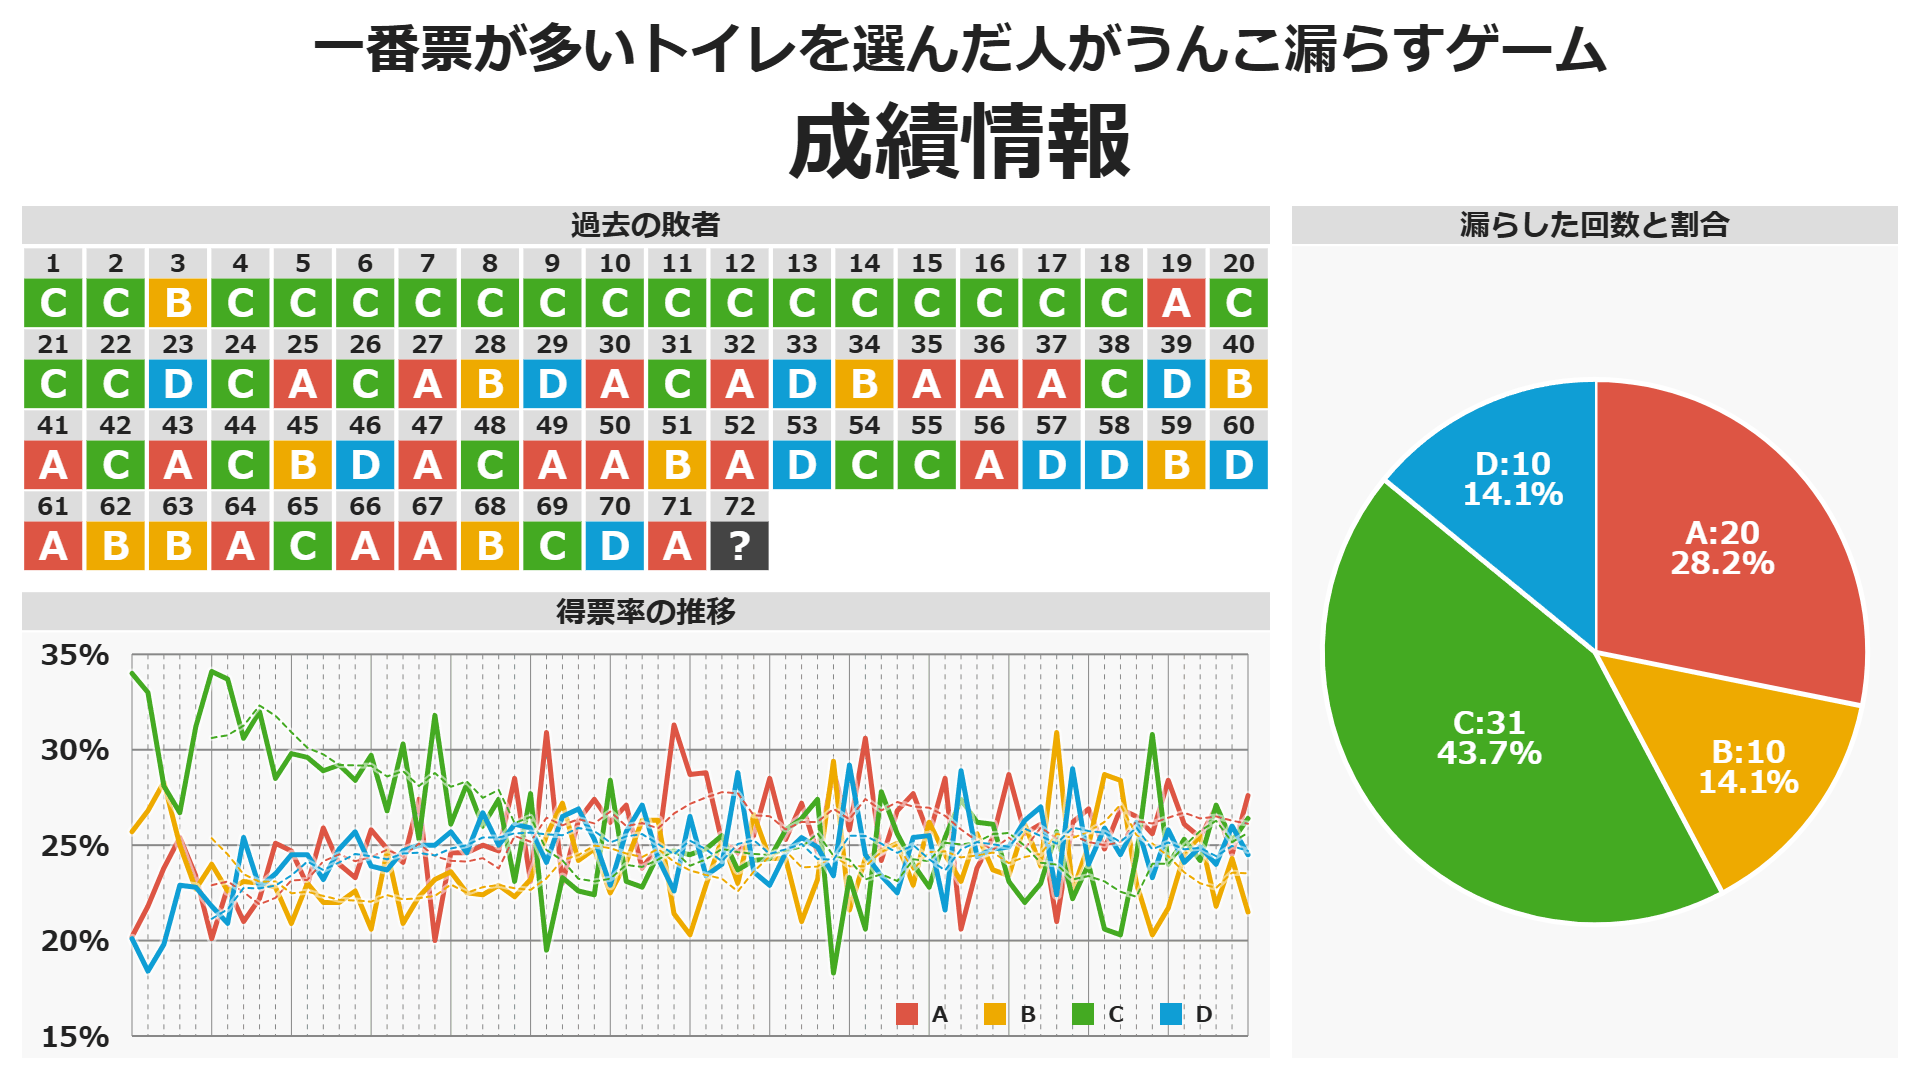
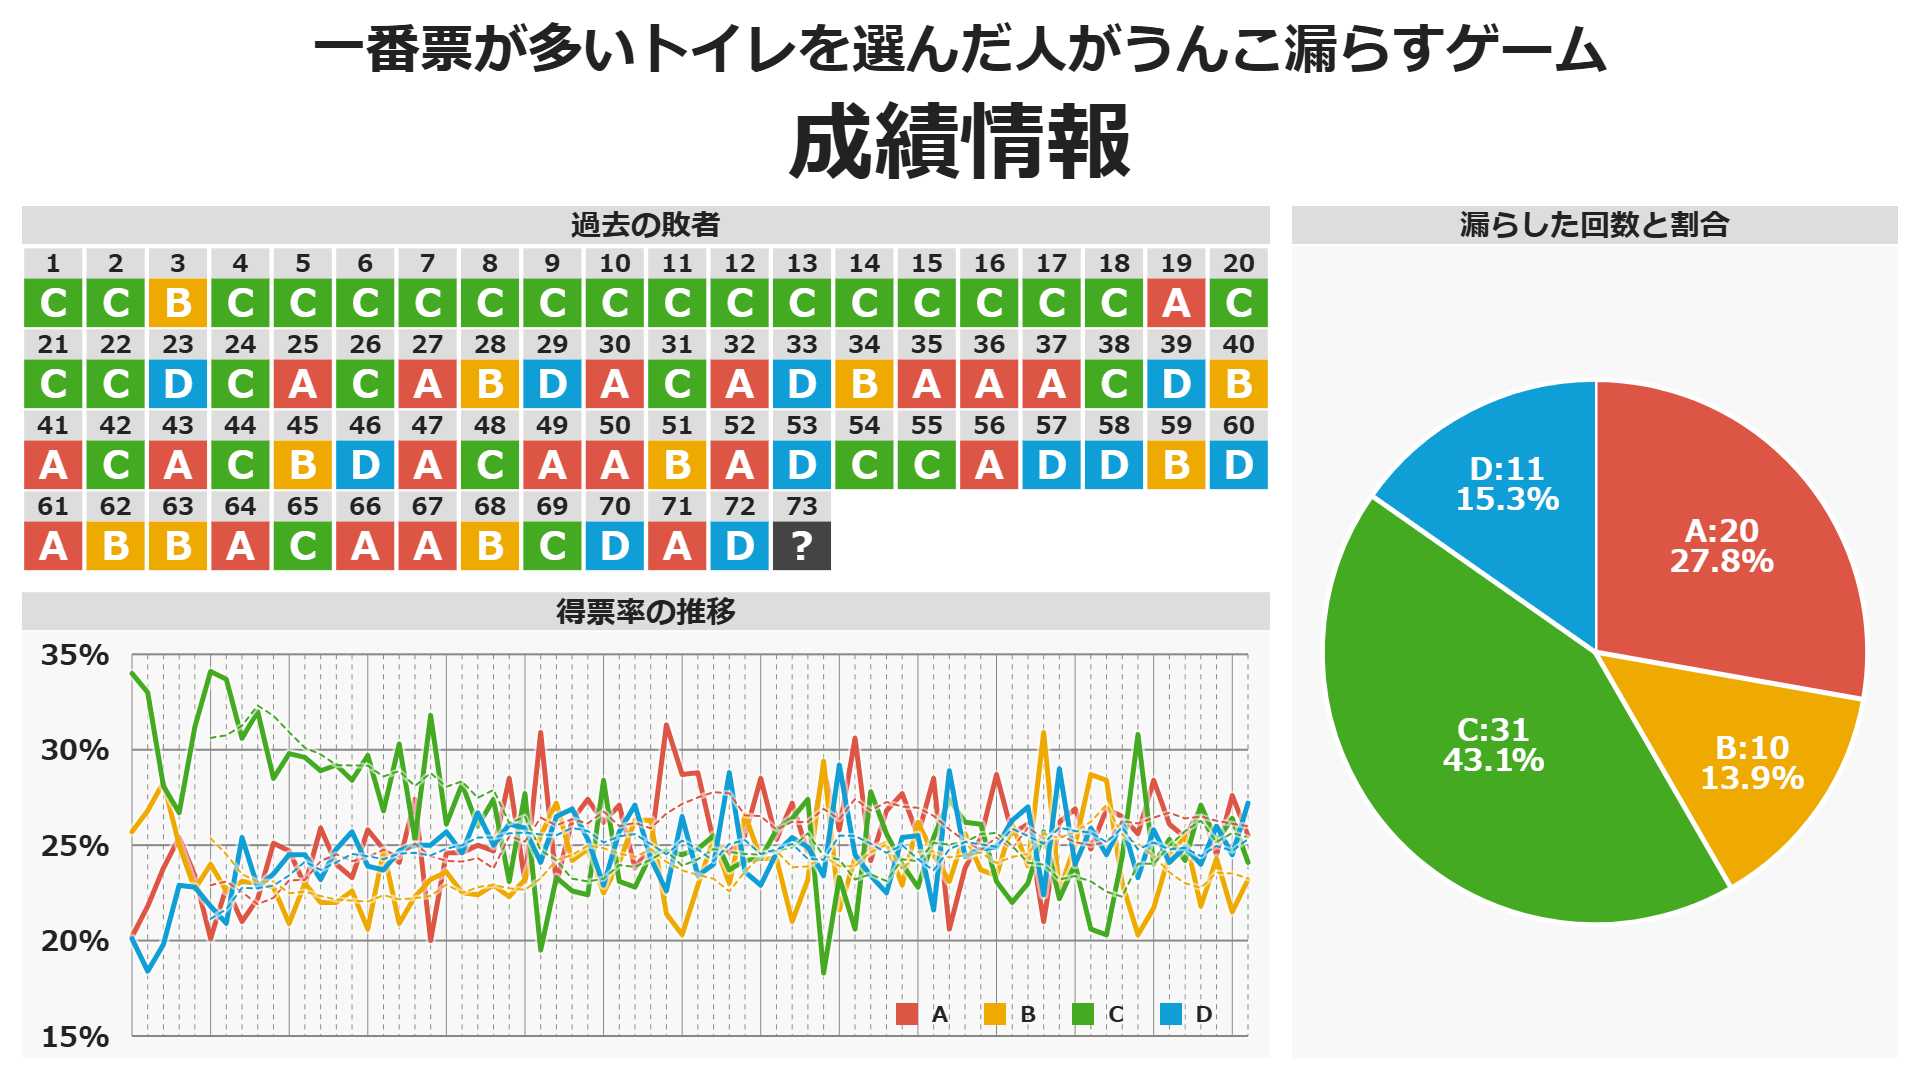
update

diff --git a/docs/index.html b/docs/index.html
@@ -12,7 +12,7 @@
     <meta property="og:url" content="https://shapoco.github.io/toilet-game/" />
     <meta property="og:title" content="4択トイレゲーム" />
     <meta property="og:description" content="一番票が多いトイレを選んだ人がうんこ漏らすゲーム" />
-    <meta property="og:image" content="https://shapoco.github.io/toilet-game/cover.png?20250409150200" />
+    <meta property="og:image" content="https://shapoco.github.io/toilet-game/cover.png?20250413074200" />
     
     <link rel="icon" href="https://shapoco.github.io/favicon192.png" sizes="192x192">
     <link rel="apple-touch-icon" href="https://shapoco.github.io/apple-touch-icon180.png" sizes="180x180">
@@ -36,8 +36,8 @@
     <style>
     </style>
     
-    <link rel="stylesheet" href="./style.css?20250409150200">
-    <script src="./toilet_game.js?20250409150200"></script>
+    <link rel="stylesheet" href="./style.css?20250413074200">
+    <script src="./toilet_game.js?20250413074200"></script>
 
     <title>4択トイレゲーム</title>
   </head>

diff --git a/docs/work.html b/docs/work.html
@@ -12,7 +12,7 @@
     <meta property="og:url" content="https://shapoco.github.io/toilet-game/" />
     <meta property="og:title" content="4択トイレゲーム" />
     <meta property="og:description" content="一番票が多いトイレを選んだ人がうんこ漏らすゲーム" />
-    <meta property="og:image" content="https://shapoco.github.io/toilet-game/cover.png?20250409150200" />
+    <meta property="og:image" content="https://shapoco.github.io/toilet-game/cover.png?20250413074200" />
     
     <link rel="icon" href="https://shapoco.github.io/favicon192.png" sizes="192x192">
     <link rel="apple-touch-icon" href="https://shapoco.github.io/apple-touch-icon180.png" sizes="180x180">
@@ -33,8 +33,8 @@
       }
     </script>
 
-    <link rel="stylesheet" href="./style.css?20250409150200">
-    <script src="./toilet_game.js?20250409150200"></script>
+    <link rel="stylesheet" href="./style.css?20250413074200">
+    <script src="./toilet_game.js?20250413074200"></script>
 
     <title>4択トイレゲーム</title>
   </head>

diff --git a/docs/toilet_game.js b/docs/toilet_game.js
@@ -74,5 +74,6 @@ const DB = [
   { date: '2025-03-22', total: 646, percent: [24.5, 24.3, 25.2, 26], url: 'https://x.com/shapoco/status/1903311724322951640' },
   { date: '2025-03-29', total: 526, percent: [27.6, 21.5, 26.4, 24.5], url: 'https://x.com/shapoco/status/1905905696165806572' },
   { date: '2025-04-05', total: 585  , percent: [25.5, 23.2, 24.1, 27.2], url: 'https://x.com/shapoco/status/1908532802787958797' },
+  { date: '2025-04-13', total: 0, percent: null, url: null },
   //{ date: '2025-xx-xx', total: 0, percent: null, url: null },
 ];
